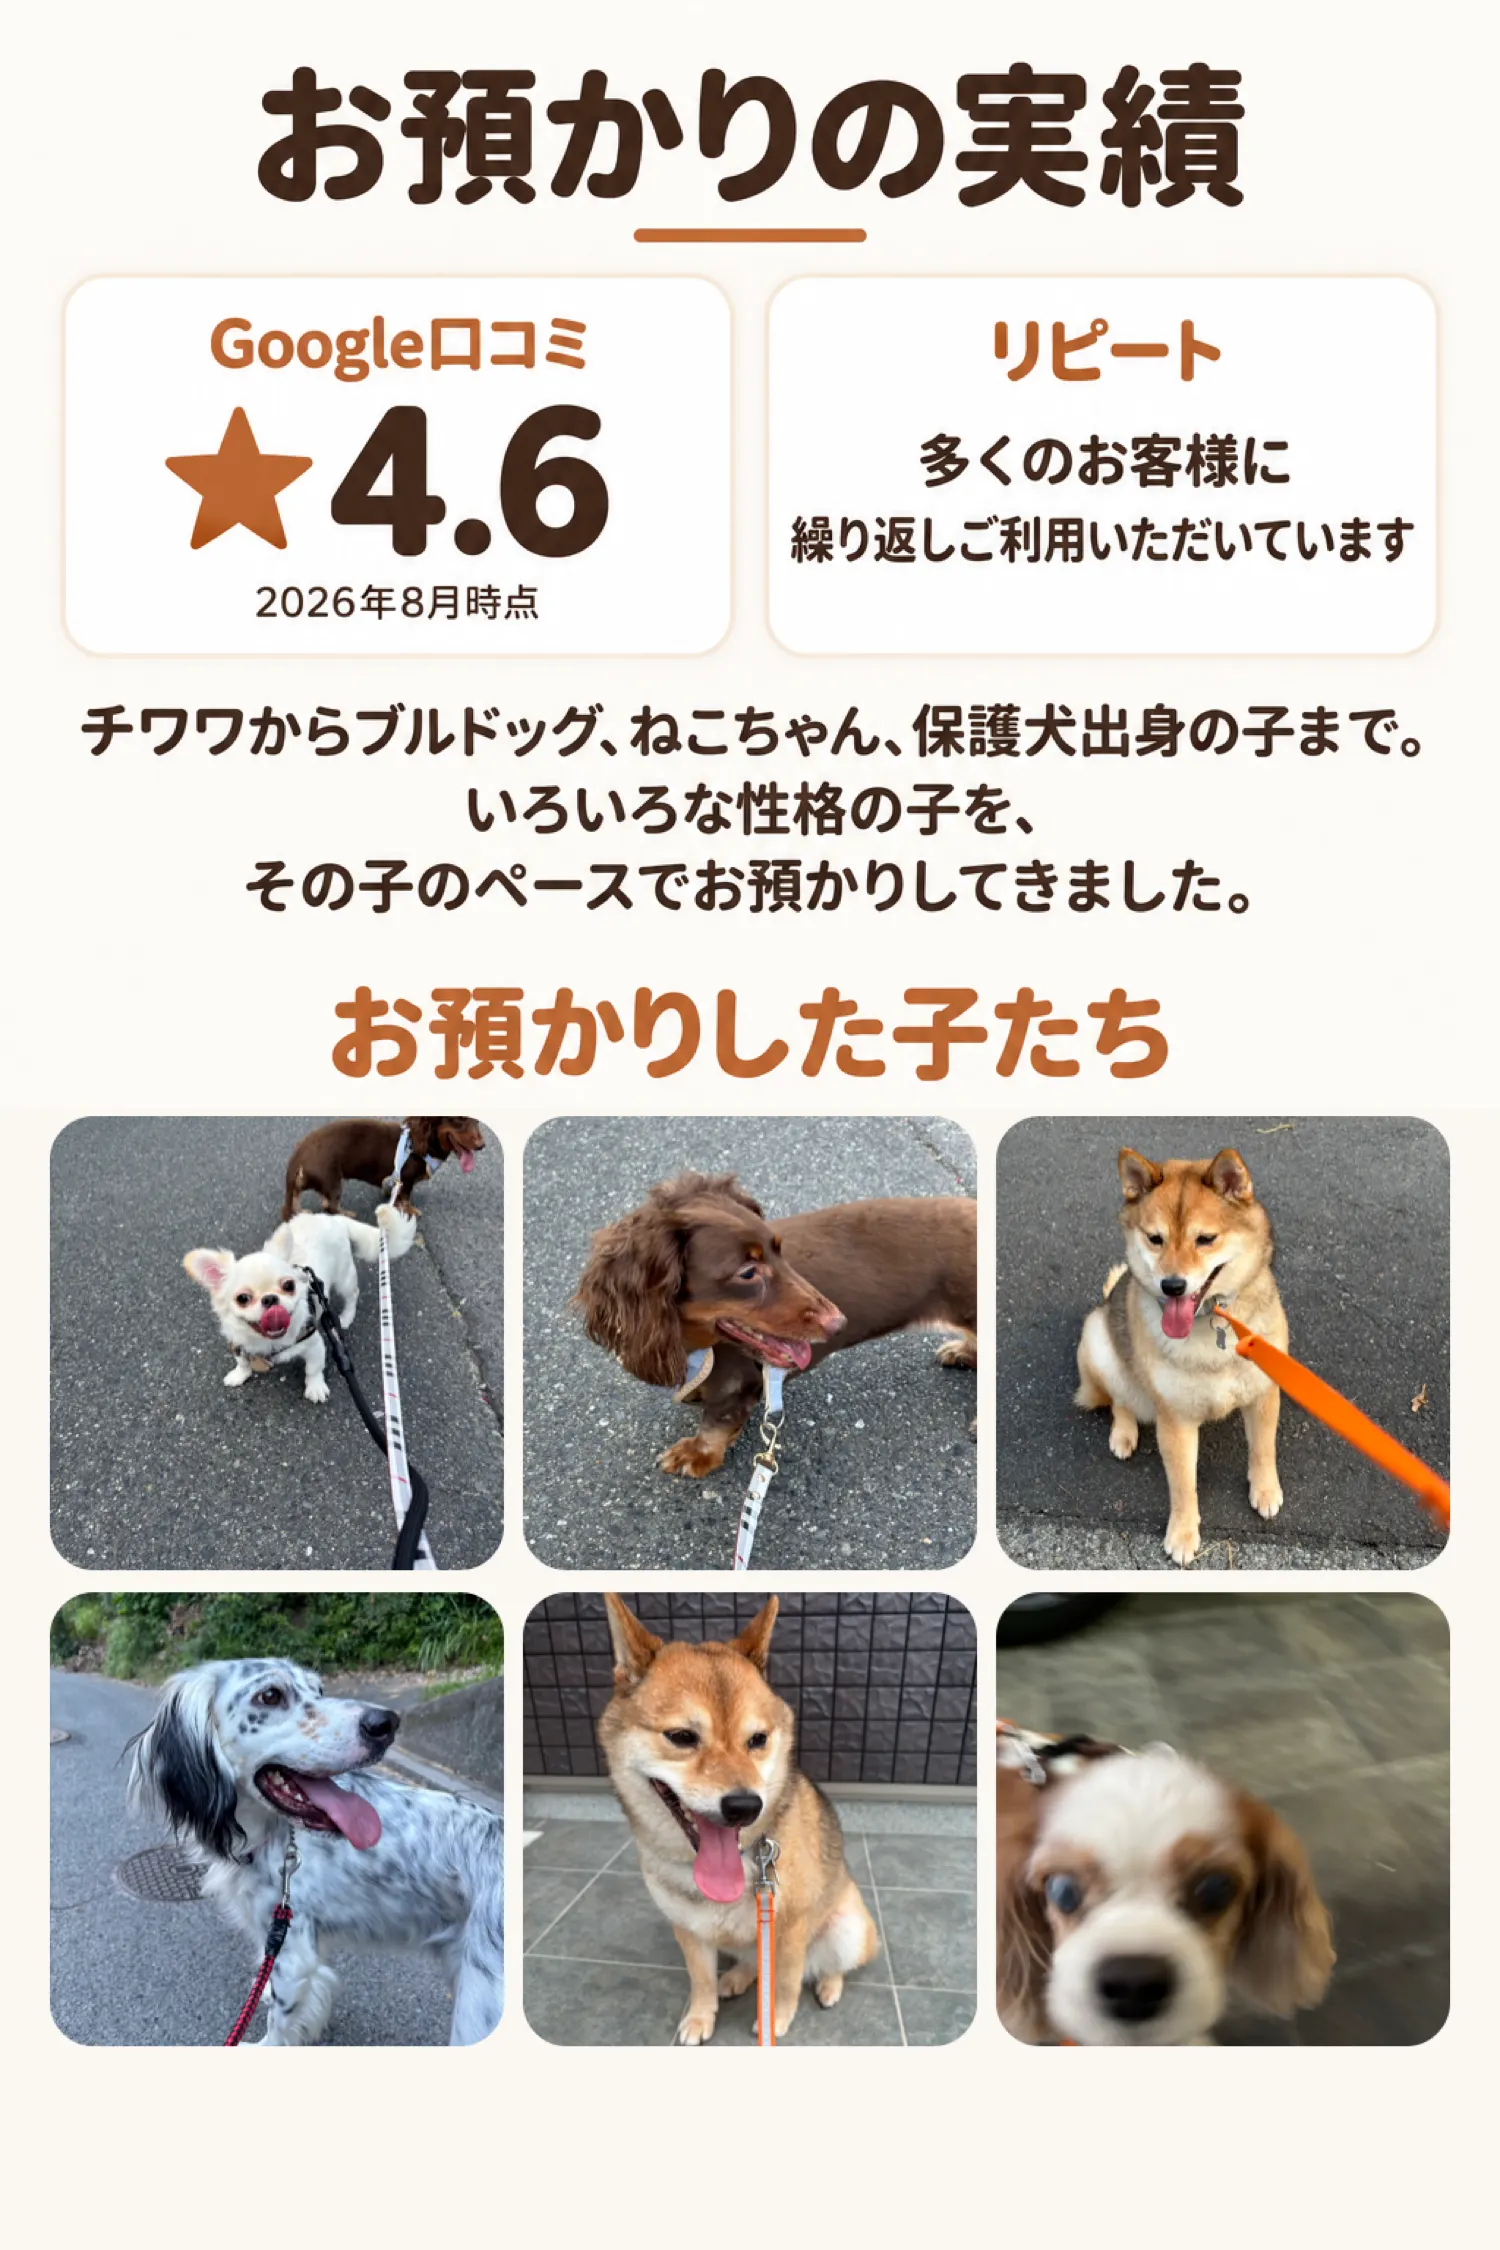
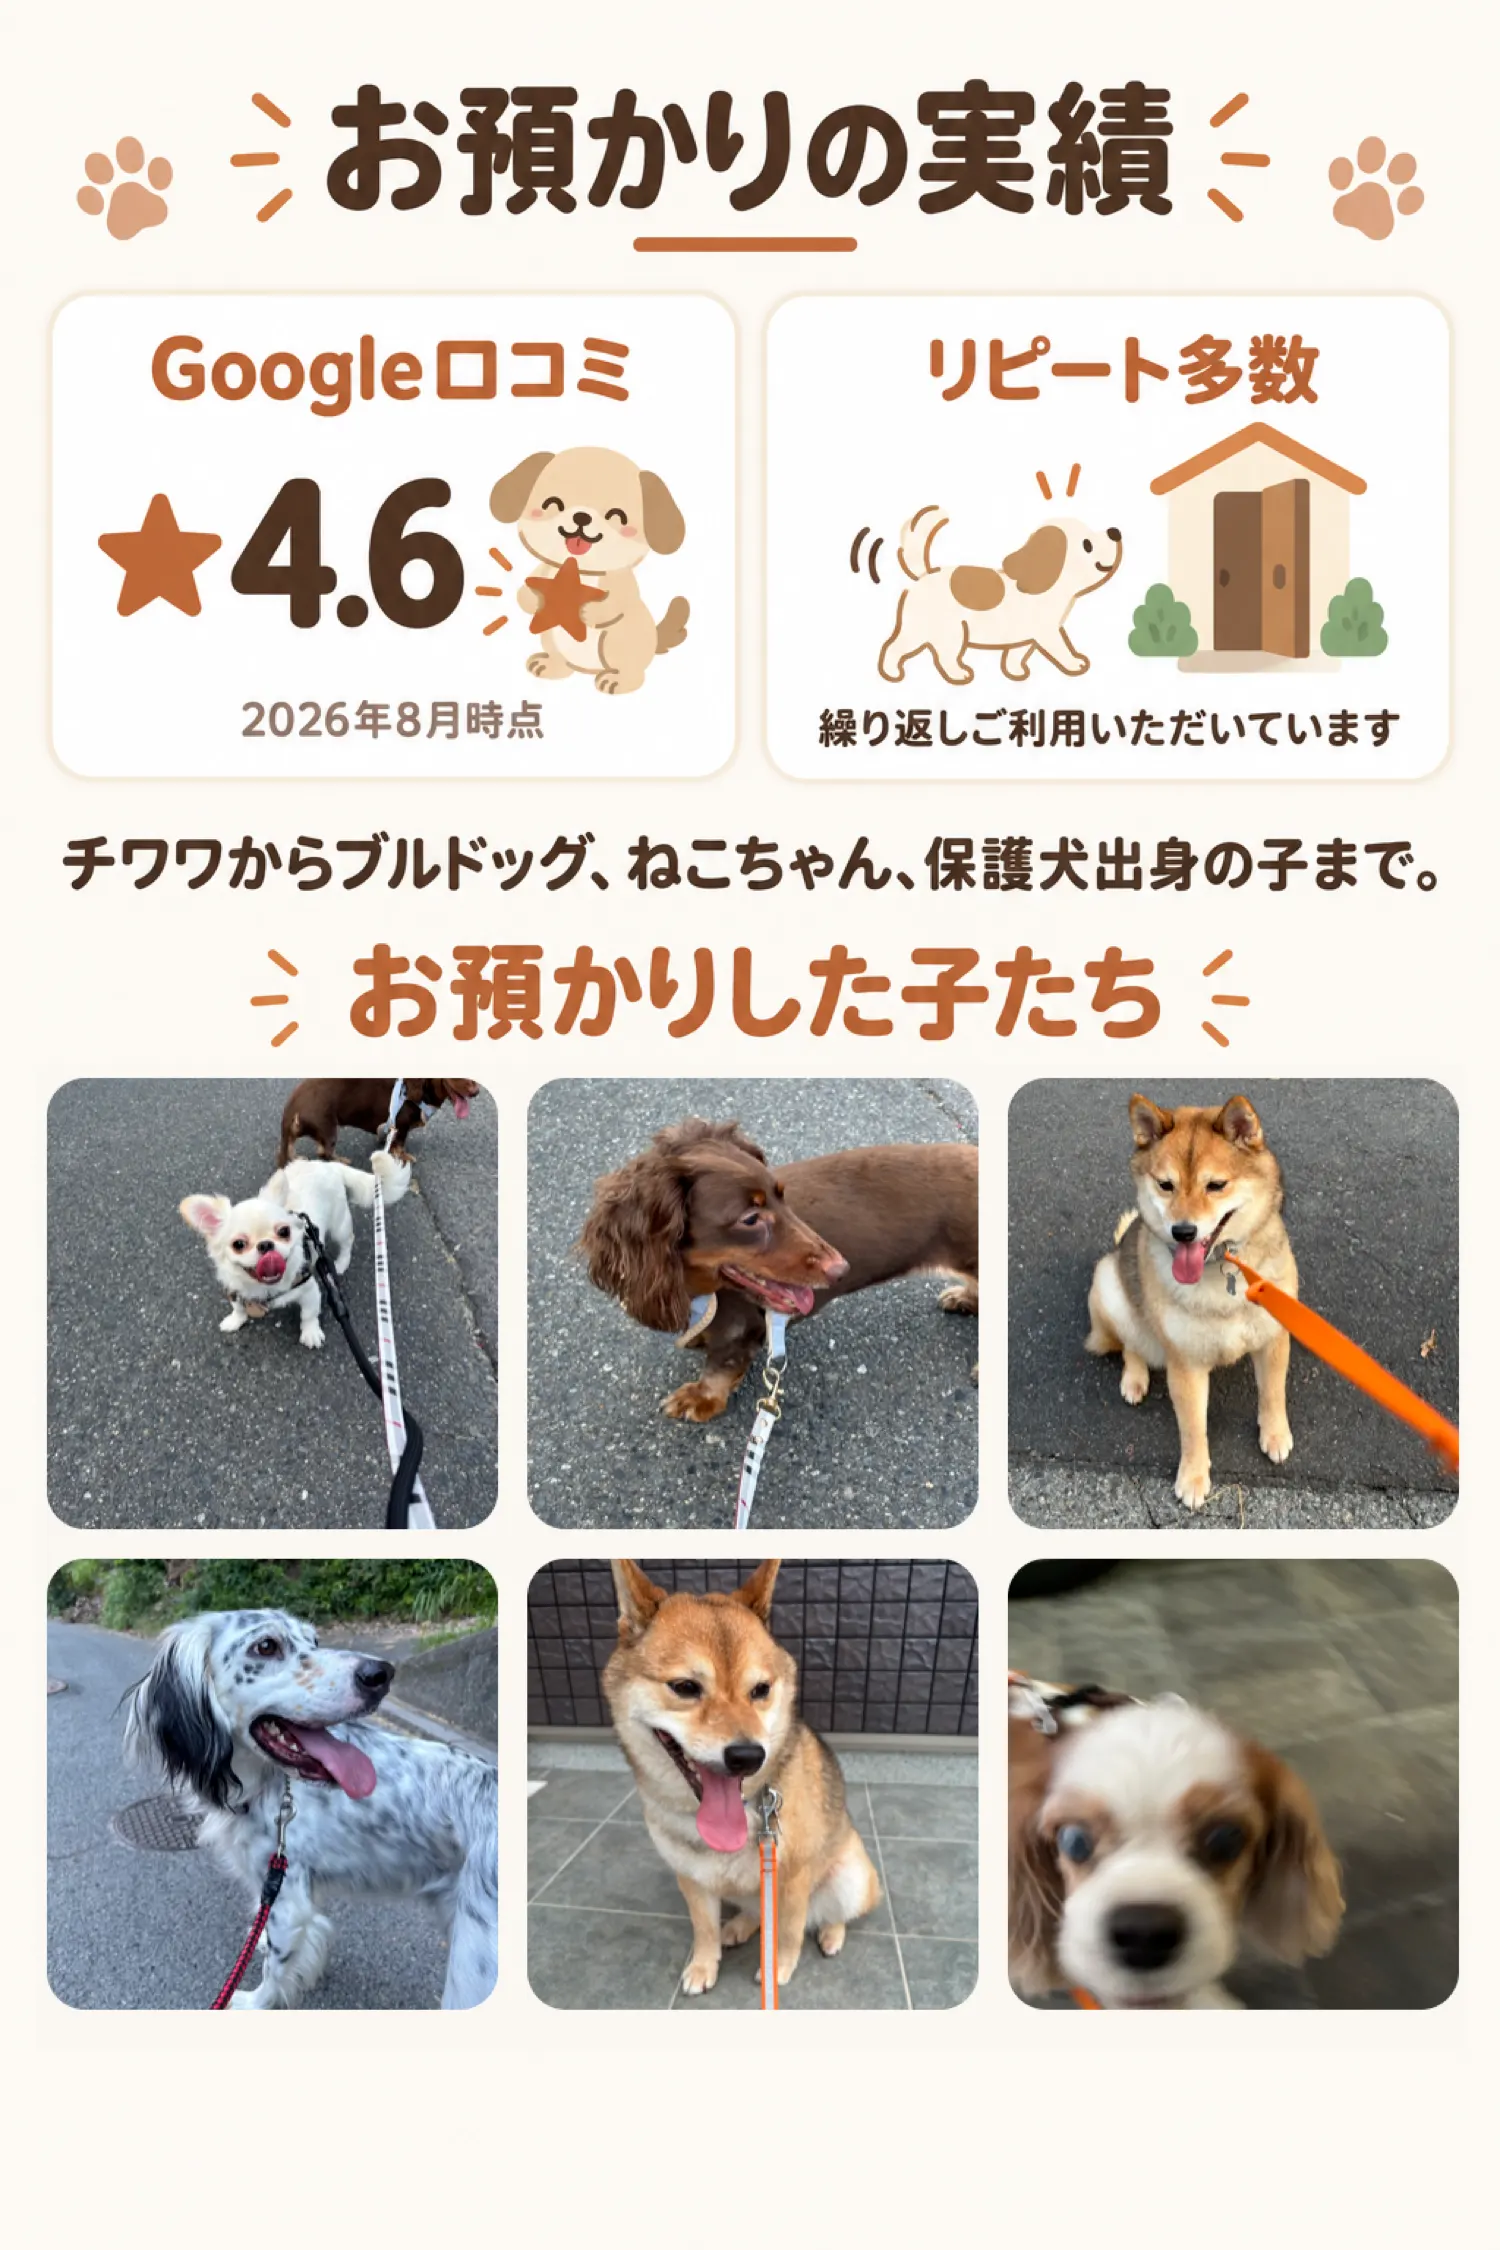
update

diff --git a/index.html b/index.html
@@ -121,8 +121,8 @@
 
       <!-- ▼⑩ お預かりの実績 -->
       <section class="slice">
-        <img src="img/10-results.webp?v=1" width="1500" height="2250" loading="lazy"
-             alt="お預かりの実績。Google口コミ★4.6（2026年8月時点）。多くのお客様に繰り返しご利用いただいています。チワワからブルドッグ、ねこちゃん、保護犬出身の子まで。いろいろな性格の子を、その子のペースでお預かりしてきました。お預かりした子たち">
+        <img src="img/10-results.webp?v=2" width="1500" height="2250" loading="lazy"
+             alt="お預かりの実績。Google口コミ★4.6（2026年8月時点）。リピート多数、繰り返しご利用いただいています。チワワからブルドッグ、ねこちゃん、保護犬出身の子まで。お預かりした子たち">
       </section>
 
       <!-- ▼⑪ 預け先くらべ -->
